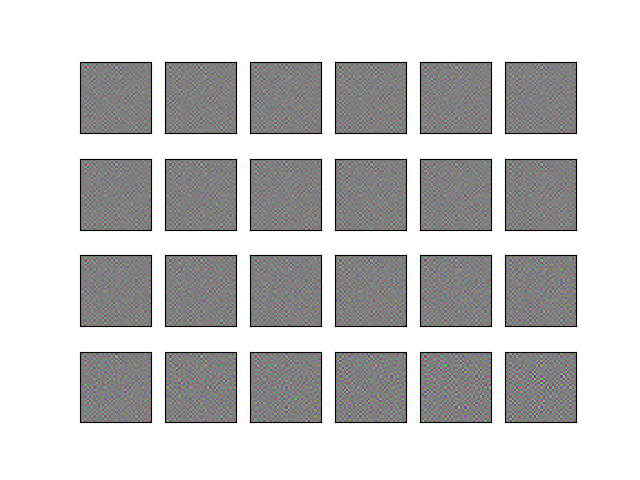
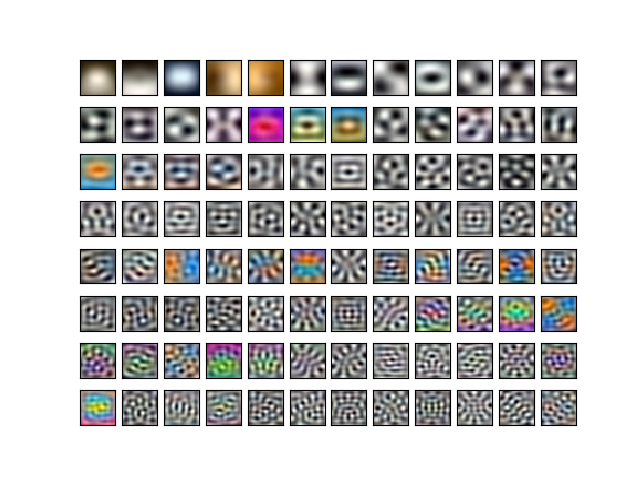
fix post for pca whitening in method for plotting

diff --git a/_posts/2018-03-28-cifar10-whitening.md b/_posts/2018-03-28-cifar10-whitening.md
@@ -350,6 +350,11 @@ SVDのライブラリが割とそのまま使える模様。
 特徴量として渡してやるのが正解のようだ。
 
 ```
+def normalizeImage2(x, epsilon=1E-6):
+  vmin = np.min(x)
+  vmax = np.max(x)
+  return (x - vmin) / (vmax - vmin + epsilon)
+
 x_pcaw = x_train.reshape(x_train.shape[0], -1)
 print('x_pcaw.shape=' + str(x_pcaw.shape))
 # x_pcaw.shape(50000, 3072)
@@ -363,7 +368,7 @@ for i in range(0, 16):
   fig.axes.get_xaxis().set_visible(False)
   fig.axes.get_yaxis().set_visible(False)
   plt.subplot(4, 8, i*2+2)
-  fig = plt.imshow(normalizeImage(x_pcaw[i,:,:,:]))
+  fig = plt.imshow(normalizeImage2(x_pcaw[i,:,:,:]))
   fig.axes.get_xaxis().set_visible(False)
   fig.axes.get_yaxis().set_visible(False)
 
@@ -374,6 +379,8 @@ plt.savefig('cifar10_pcaw.png')
 左右に隣接する画像が2枚ずつペアで、左側が元画像、右側がPCA白色化した結果。
 
 もはやなんだかわからないが、PCA白色化というのはそういうものらしい。
+左上が低周波成分、右下が高周波成分と考えていいのだろうか？
+
 本によると「自然画像は一般に低い周波数成分ほど値が大きい特徴があり、PCA白色化はこれをキャンセルする」とのこと。
 
 ![CIFAR-10 PCA Whitening](/images/plots/2018-03-29-cifar10-pcaw.png)
@@ -383,32 +390,34 @@ plt.savefig('cifar10_pcaw.png')
 フィルタをプロットしてみる。
 
 ```
-print('pcaw.pca.shape=' + str(pcaw.pca.shape))
-# pcaw.pca.shape=(3072, 3072)
-img = pcaw.pca
-vmin = np.min(img, axis=0)
-vmax = np.max(img, axis=0)
-img = (img - vmin) / (vmax - vmin)
-
 plt.clf()
-for i in range(0, 24):
-  plt.subplot(4, 6, i+1)
-  fig = plt.imshow(img[i*128,:].reshape(32, 32, 3))
+for i in range(0, 96):
+  plt.subplot(8, 12, i+1)
+  fig = plt.imshow(normalizeImage2(img[i,:]).reshape(32, 32, 3))
   fig.axes.get_xaxis().set_visible(False)
   fig.axes.get_yaxis().set_visible(False)
 
 plt.savefig('cifar10-pca-filter.png')
+
+plt.clf()
+for i in range(0, 96):
+  plt.subplot(8, 12, i+1)
+  fig = plt.imshow(normalizeImage2(img[i*32,:]).reshape(32, 32, 3))
+  fig.axes.get_xaxis().set_visible(False)
+  fig.axes.get_yaxis().set_visible(False)
+
+plt.savefig('cifar10-pca-filter-2.png')
 ```
 
-
-なんか細かくウニャッとしている。
-期待していてものと違うものがでている気がしないでもないが、今回はこれでいいことにする。
-
-細かいウネウネが高周波成分を強調する役割をしていると考えられる。
+低周波成分を強調するフィルタから始まり、段々と高周波に移っていく3,072枚のフィルタが得られた。
 
 ![CIFAR-10 PCA Filter](/images/plots/2018-03-29-cifar10-pcaw-filter.png)
 
-*図3.2. CIFAR-10画像のPCA白色化フィルタ*
+*図3.2a. CIFAR-10画像のPCA白色化フィルタ 1-96枚目*
+
+![CIFAR-10 PCA Filter](/images/plots/2018-03-29-cifar10-pcaw-filter-2.png)
+
+*図3.2b. CIFAR-10画像のPCA白色化フィルタ 1-3072枚目まで32枚飛ばし*
 
 あと、少しPCA分析(主成分分析)もしてみる。
 
